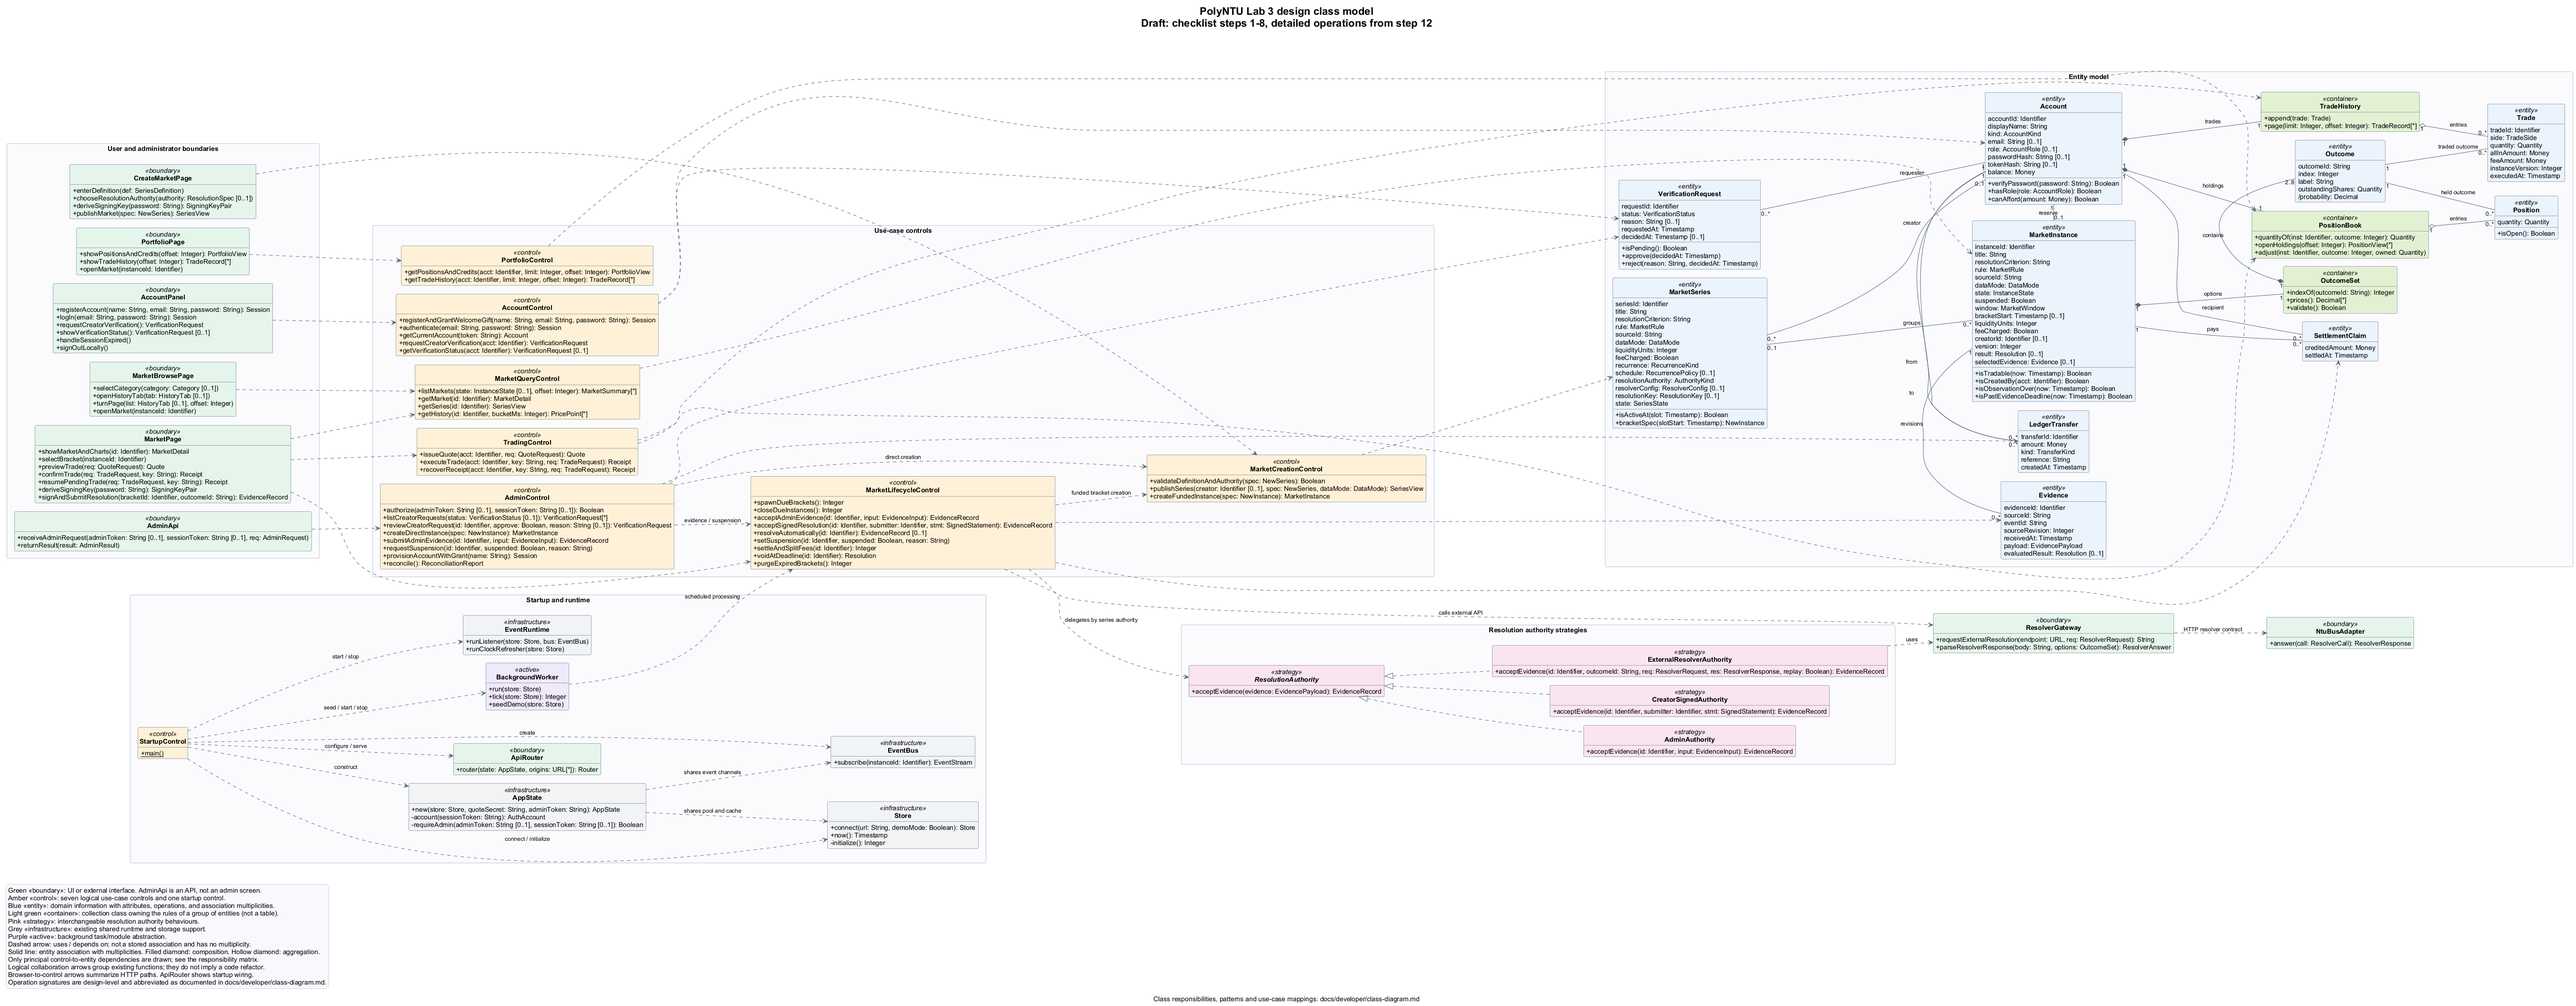
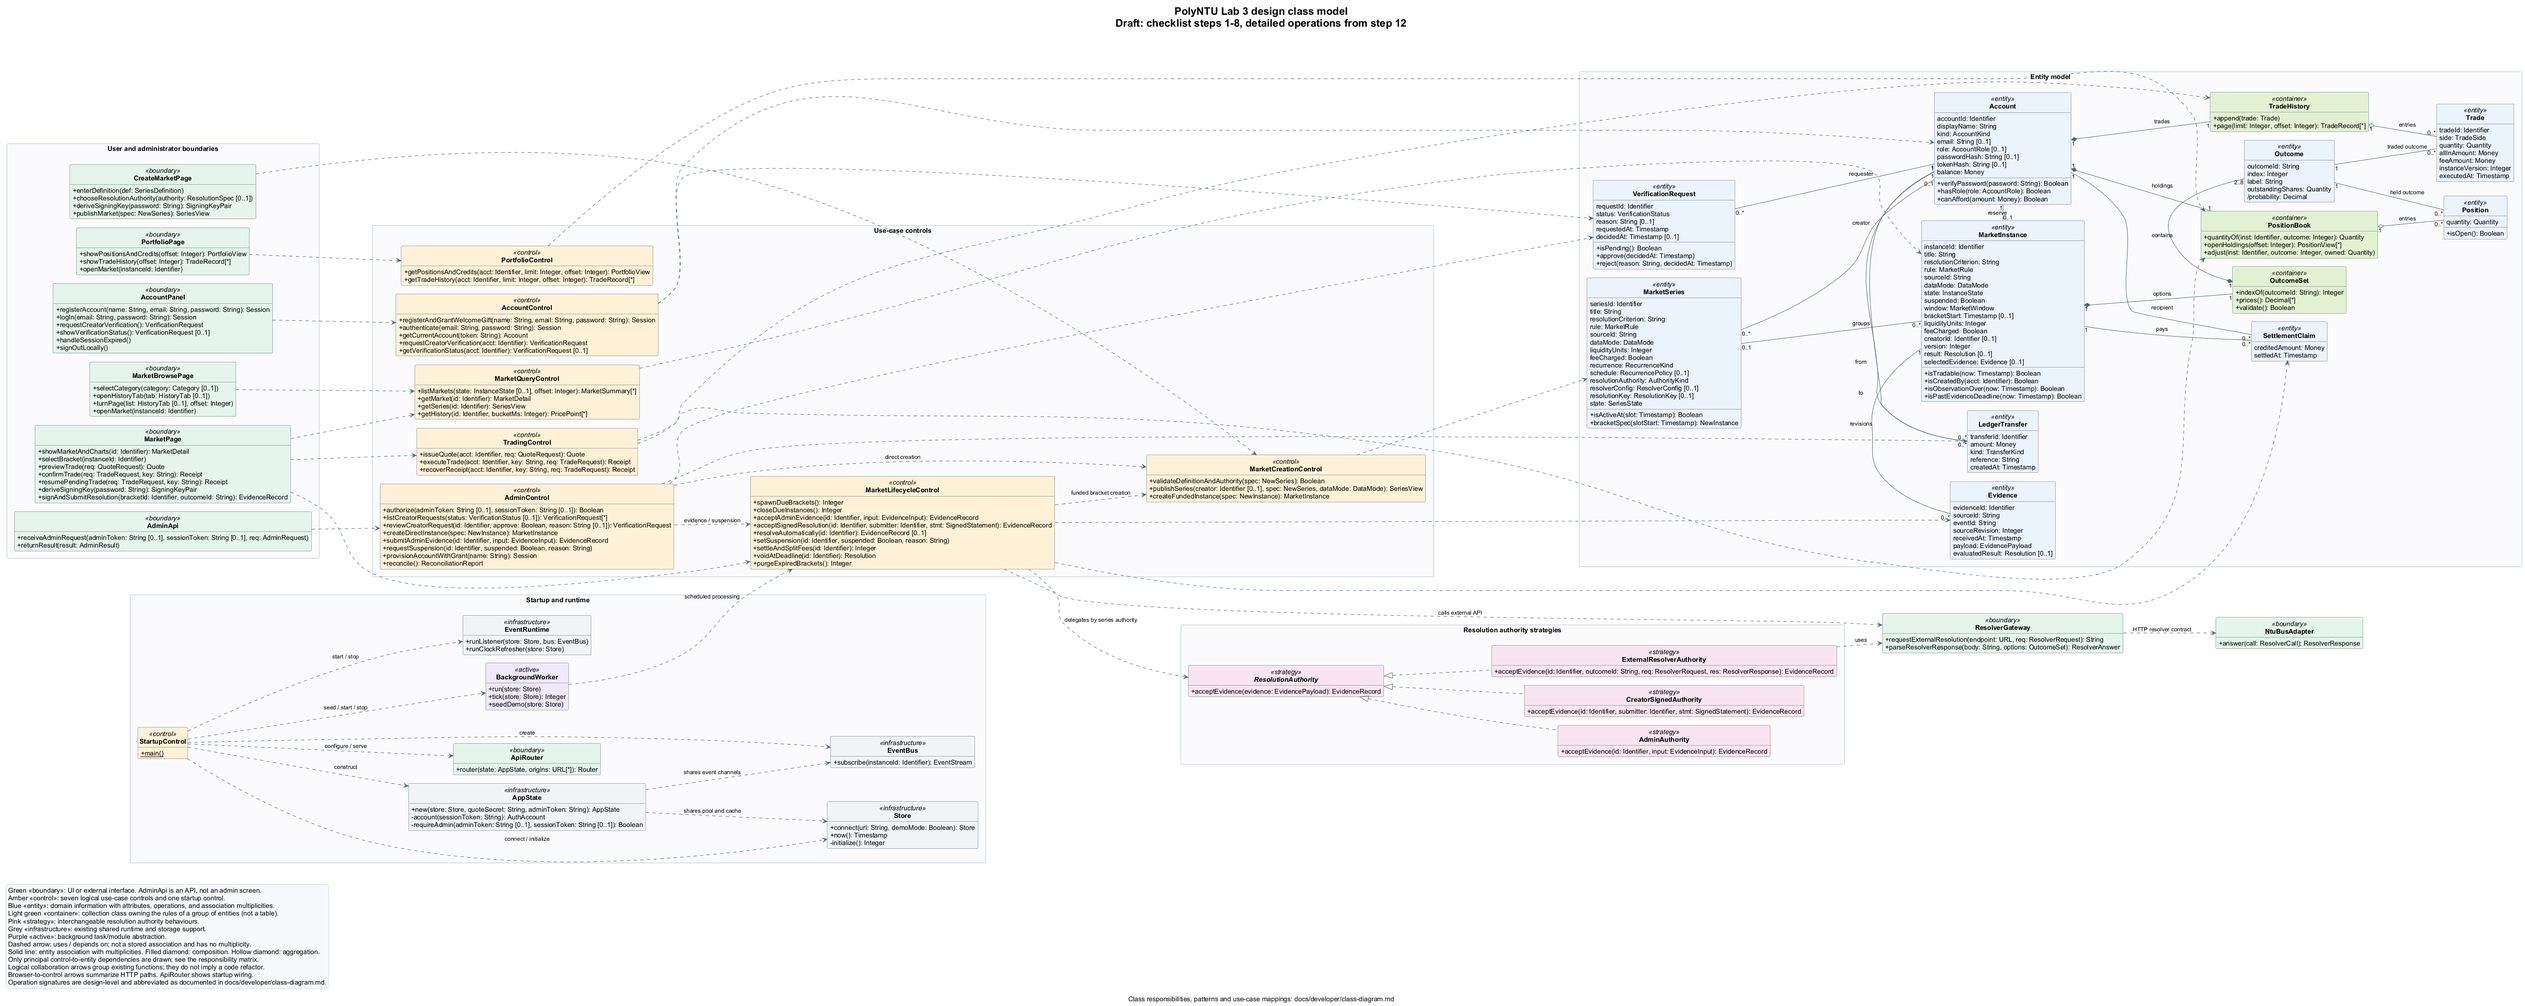
Trim the widest diagram signature and note the abbreviation
Drop the demo-only replay argument from ExternalResolverAuthority so the
strategy box stays readable, and document the omission in the class model.
Re-render and refresh the lab3 snapshot.

diff --git a/docs/developer/class-diagram.md b/docs/developer/class-diagram.md
@@ -175,7 +175,7 @@ In the diagram, `MarketInstance` owns one `OutcomeSet`, which owns 2 to 8 `Outco
 
 ## Design patterns
 
-"In code" means the structure exists in the source; "design level" means the diagram expresses it but Rust implements it with an idiom such as an enum and `match`.
+"In code" means the structure exists in the source; "design level" means the diagram expresses it but Rust implements it with a lighter idiom. Operation signatures in the diagram are abbreviated design-level forms: request structs stand for their expanded fields, and `ExternalResolverAuthority.acceptEvidence` omits its `replay` argument, which only decides whether a demo-mode answer may bypass the published evidence deadline.
 
 | Pattern | Problem and roles | Status |
 |---|---|---|
